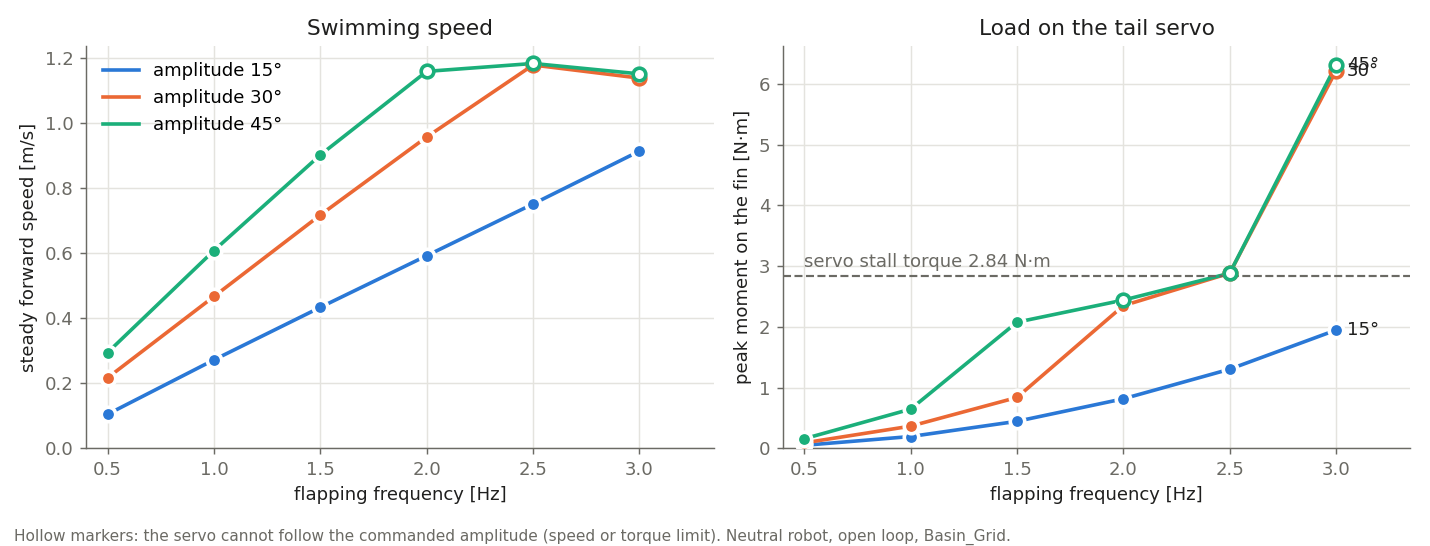
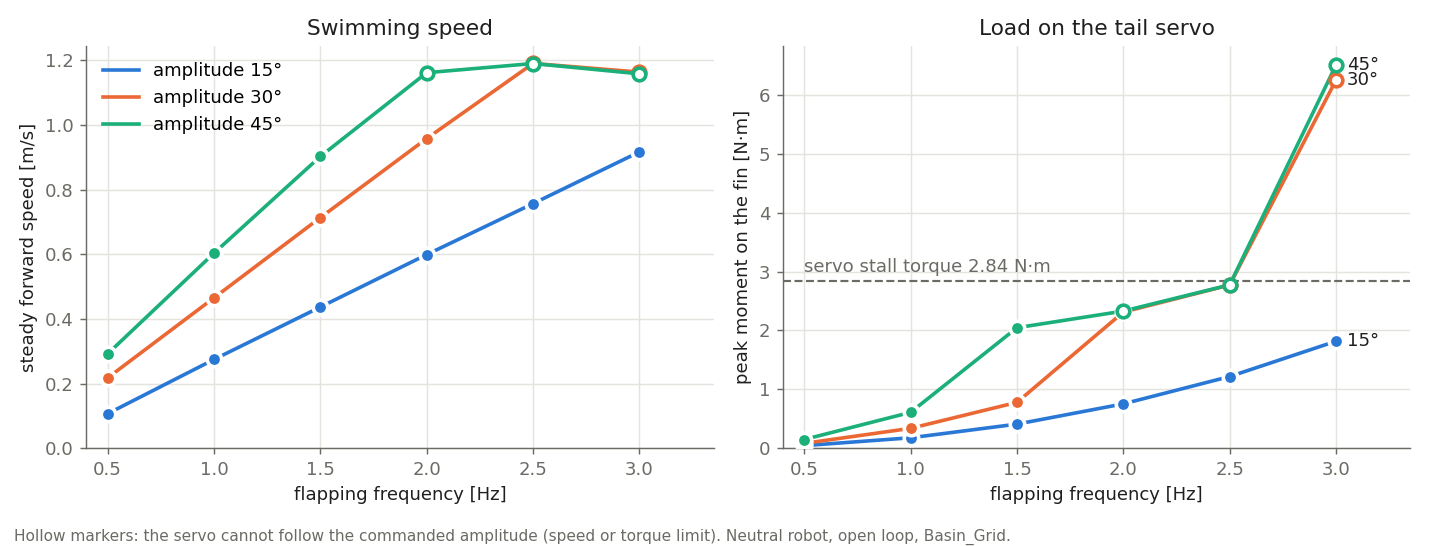
Use a balanced mass model for the robot structure
The components now only count as a total mass (4.0 kg). By default
(massModel = Simplified) the structure is balanced like a well-trimmed
robot: with the moving mass at the tube center, the center of mass is
right under the center of buoyancy, 10 mm below it (BG), and the inertia
is that of a uniform cylinder of the hull size plus the added inertia of
the water. The CAD distribution is kept as the Cad option.

BG was chosen by testing 3 to 30 mm: 10 mm gives the smallest roll and
the best depth holding at cruise. The yaw swing does not depend on the
mass distribution: it comes from the reaction of the tail.

diff --git a/Assets/AUV/Scripts/RobotFishPhysics.cs b/Assets/AUV/Scripts/RobotFishPhysics.cs
@@ -39,14 +39,28 @@ public class RobotFishPhysics : MonoBehaviour
     public float fallbackWaterLevel = 0f;
 
     // ------------------------------------------------------------------ mass properties
-    // The robot carries no ballast: its mass is the structure (every part, estimated from the CAD) plus the
-    // moving mass. Its buoyancy is therefore a result, not a setting (see Docs/RobotFish_CAD_Report.md).
-    [Header("Structure (everything except the moving mass, Docs/RobotFish_CAD_Report.md)")]
-    [Tooltip("Mass of the structure: hull, electronics, battery, servos, fins [kg] (team estimate: about 4 kg; the part of it not explained by the CAD is placed at the tube center).")]
+    // The robot carries no ballast: its mass is the structure plus the moving mass. Its buoyancy is therefore a
+    // result, not a setting. Two models for how the structure mass is distributed (field `massModel`):
+    //   - Simplified (default): the components only matter as a total mass. The structure is balanced like a
+    //     well-trimmed robot: its center of mass is right under the center of buoyancy (B) with the moving mass at
+    //     the tube center, `centerOfMassBelowBuoyancy` (BG) below it, and its inertia is that of a uniform cylinder
+    //     of the hull size. On the real robot this balance is reached by placing the battery and the other
+    //     components; BG is mainly set by how low the battery is mounted.
+    //   - Cad: center of mass and inertia from the CAD parts (Docs/RobotFish_CAD_Report.md).
+    public enum MassModel { Simplified, Cad }
+
+    [Header("Structure (everything except the moving mass)")]
+    [Tooltip("Mass of the structure: hull, electronics, battery, servos, fins [kg] (team estimate: about 4 kg).")]
     public float structureMass = 4.000f;
-    [Tooltip("Center of mass of the structure, local axes [m].")]
+    [Tooltip("Simplified: balanced structure, center of mass under the center of buoyancy (computed at start). Cad: values below, from the CAD parts.")]
+    public MassModel massModel = MassModel.Simplified;
+    [Tooltip("Simplified model: distance from the center of buoyancy down to the center of mass (BG) with the moving mass at the tube center [m]. Larger = the robot rights itself more strongly in roll and pitch.")]
+    public float centerOfMassBelowBuoyancy = 0.010f;
+    [Tooltip("Simplified model: added inertia of the water in pitch and yaw [kg·m²] (slender cylinder, Docs/RobotFish_CAD_Report.md).")]
+    public float waterAddedInertia = 0.0507f;
+    [Tooltip("Center of mass of the structure, local axes [m]. Cad model: from the CAD report. Simplified model: computed at start.")]
     public Vector3 structureCenterOfMass = new Vector3(0.0237f, -0.0049f, 0f);
-    [Tooltip("Principal moments of inertia of the structure about its own center of mass, local axes x (roll), y (yaw), z (pitch), including the added inertia of the water [kg·m²].")]
+    [Tooltip("Principal moments of inertia of the structure about its own center of mass, local axes x (roll), y (yaw), z (pitch), including the added inertia of the water [kg·m²]. Cad model: from the CAD report. Simplified model: computed at start.")]
     public Vector3 structureInertia = new Vector3(0.0044f, 0.1322f, 0.1324f);
 
     // ------------------------------------------------------------------ hull geometry (displaced volume)
@@ -183,6 +197,7 @@ public class RobotFishPhysics : MonoBehaviour
     // ------------------------------------------------------------------ debug
     [Header("Debug (read-only)")]
     public float mass;                                // structure + moving mass [kg]
+    public float bg;                                  // center of mass below the center of buoyancy [m]
     public float buoyancyPercent;                     // (water pushed up / weight − 1) × 100: + = floats
     public float displacedVolume;                     // sum of the buoyancy points [m³]
     public float submergedFraction;                   // part of the volume under water
@@ -238,6 +253,7 @@ public class RobotFishPhysics : MonoBehaviour
         BuildBuoyancyPoints();
         BuildDragSlices();
         BuildTailStrips();
+        if (massModel == MassModel.Simplified) SetSimplifiedMassModel();
         mass = structureMass + movingMass;
         buoyancyPercent = (WaterDensity * displacedVolume / mass - 1f) * 100f;
         if (levelAtRest && movingMass > 1e-4f)        // CoM under the CoB: structure·x_s + moving·x_m = mass·x_B
@@ -252,6 +268,23 @@ public class RobotFishPhysics : MonoBehaviour
         UpdateMassProperties();
     }
 
+    // Simplified mass model: the structure is balanced so that, with the moving mass at the tube center, the center
+    // of mass of the whole robot is right under the center of buoyancy, BG below it:
+    //   structure·G_s + moving·(0, 0, 0) = total·(B − BG·up)  →  G_s = total·(B − BG·up) / structure.
+    // Inertia of the structure: uniform solid cylinder of the hull size (tube radius, dome tip to rear cap),
+    //   roll = ½·m·r², pitch = yaw = m·(3·r² + L²)/12, plus the added inertia of the water in pitch and yaw.
+    void SetSimplifiedMassModel()
+    {
+        float total = structureMass + movingMass;
+        Vector3 target = centerOfBuoyancy + Vector3.down * centerOfMassBelowBuoyancy;
+        target.z = 0f;                                                     // laterally centered
+        structureCenterOfMass = total * target / structureMass;
+        float r = tubeRadius;
+        float length = domeRadius + 2f * capThickness + tubeLength;       // dome tip to rear cap
+        float across = structureMass * (3f * r * r + length * length) / 12f;
+        structureInertia = new Vector3(0.5f * structureMass * r * r, across + waterAddedInertia, across + waterAddedInertia);
+    }
+
     // Mass, center of mass and inertia of structure + moving mass (the moving mass is on the tube axis)
     void UpdateMassProperties()
     {
@@ -260,6 +293,7 @@ public class RobotFishPhysics : MonoBehaviour
         Vector3 movingPoint = Vector3.left * movingMassPosition;                      // forward = −X
         Vector3 com = (structureMass * structureCenterOfMass + movingMass * movingPoint) / mass;
         rb.centerOfMass = com;
+        bg = centerOfBuoyancy.y - com.y;
         // parallel-axis theorem: each part's inertia about the common center of mass (diagonal terms)
         Vector3 inertia = structureInertia + ParallelAxis(structureMass, structureCenterOfMass - com) + ParallelAxis(movingMass, movingPoint - com);
         if (propulsion == PropulsionModel.TailFlapping && finAddedYawInertia) inertia.y += FinAddedYawInertia(com);

diff --git a/Docs/RobotFish_Model.md b/Docs/RobotFish_Model.md
@@ -32,9 +32,9 @@ The pressure sensor and the GNSS antenna exist on the robot but are not in the C
 | Displaced volume | 4.71 L | the water pushes the robot up with the weight of 4.71 kg |
 | Structure mass | **4.0 kg** (team estimate). The parts of the CAD (volume × assumed material) explain 2.43 kg; the remaining 1.57 kg is placed at the tube center, on the axis (battery, electronics and cables are there) | – |
 | Moving mass for neutral buoyancy | **714 g**: the simulation uses this weight | the robot is neutral (4.71 kg) and stays at its depth; **weighing the robot** remains the most useful measurement |
-| Center of mass of the structure | 18 mm behind and 4 mm below the center of buoyancy (the tail servo is heavy and at the rear) | submerged, the robot tends to raise its nose; the moving mass rests 92 mm forward of the tube center to keep it level, which leaves 58 mm of travel forward and 242 mm backward |
-| Moving-mass authority | with 714 g, about 11 mm of displacement tilts the robot by 30° at rest | a few centimetres of travel are enough to tilt the robot by tens of degrees; the depth controller will use only a small part of the travel |
-| Center of mass below the center of buoyancy | 2.8 mm (neutral) | weak self-righting: the robot rolls and tilts easily |
+| Center of mass of the structure (CAD parts) | 18 mm behind and 4 mm below the center of buoyancy (the tail servo is heavy and at the rear) | with this distribution the moving mass would have to rest 92 mm forward to keep the robot level. On the real robot this is corrected by placing the battery and the other components, so the simulation uses a **balanced structure** by default (section 3.1) |
+| Moving-mass authority | with 714 g and BG = 10 mm, about 38 mm of displacement tilts the robot by 30° at rest, the full travel (±150 mm) by ±66° | a few centimetres of travel are enough to tilt the robot by tens of degrees; the depth controller will use only part of the travel |
+| Center of mass below the center of buoyancy (BG) | 2.8 mm with the CAD distribution; **10 mm** in the simulation (balanced structure, battery mounted low) | the smaller BG, the more easily the robot rolls and tilts |
 
 ## 3. Simulation model
 
@@ -62,10 +62,13 @@ Local axes: forward = −X, up = +Y, right = +Z; origin = tube center. The physi
 
 ### 3.1 Mass properties
 
-- **Structure** (every part except the moving mass): `structureMass` = 4.0 kg, `structureCenterOfMass`, `structureInertia` (about its own center of mass, including the added inertia of the water in pitch and yaw), all from the CAD report.
+- **Structure** (every part except the moving mass): `structureMass` = 4.0 kg. How this mass is distributed is set by `massModel`:
+  - **`Simplified` (default):** the components only count as a total mass, and the structure is balanced like a well-trimmed robot. With the moving mass at the tube center, the center of mass of the whole robot is right under the center of buoyancy, `centerOfMassBelowBuoyancy` (BG = 10 mm) below it. The inertia is that of a uniform solid cylinder of the hull size (radius 55 mm, 473 mm from the dome tip to the rear cap), plus the added inertia of the water in pitch and yaw (0.0507 kg·m²). On the real robot, this balance is reached by placing the battery and the other components; BG mainly depends on how low the battery is mounted. The value of 10 mm was chosen with the tests of section 5.1.
+  - **`Cad`:** `structureCenterOfMass` and `structureInertia` from the CAD parts (CAD report), with the 1.57 kg not explained by the CAD at the tube center. The robot then needs the moving mass 92 mm forward to be level and has a BG of only 2.8 mm.
+  - `bg` (Debug) shows the current BG.
 - **Moving mass** on the tube axis: `movingMass` (default **0.714 kg**, the weight that makes the robot neutral), at `movingMassPosition` (+ = forward).
 - Every step, the total mass, the center of mass and the inertia (parallel-axis theorem) are recomputed from both. The **buoyancy is a result**: `buoyancyPercent` (Debug) = water pushed up / weight − 1.
-- **Rest position:** with `levelAtRest` (default), the rest position of the moving mass is computed at start so that the submerged robot rests level (moving mass placed so that the center of mass is under the center of buoyancy, clamped to the travel), as an operator would adjust it. With 714 g it is 92 mm forward of the tube center.
+- **Rest position:** with `levelAtRest` (default), the rest position of the moving mass is computed at start so that the submerged robot rests level (moving mass placed so that the center of mass is under the center of buoyancy, clamped to the travel), as an operator would adjust it. With the `Simplified` model it is the tube center; with the `Cad` model, 92 mm forward.
 - **Command:** `pitchCommand` 0 = rest position, +1 = front end (nose down), −1 = back end (nose up); the mass moves at `movingMassSpeed` (50 mm/s, estimate).
 
 ### 3.2 Buoyancy
@@ -153,7 +156,7 @@ The detailed prefab uses the CAD parts converted by `Tools/cad_analysis/cad_to_u
 `RobotFishVisual` (`Assets/AUV/Scripts/RobotFishVisual.cs`) moves two parts every frame from the state of `RobotFishPhysics` (it only moves visuals; the physics does not depend on it):
 
 - **Moving mass**: a square carriage (50 × 50 mm, orange) with a metal weight on top (40 × 40 × 15 mm, steel), like on the real robot, on the tube axis. Its size is fixed: the weight set in `movingMass` only matters for the physics.
-  - **Exaggerated display (default, `movingMassDisplay`).** Near neutral buoyancy, the center of mass is only a few millimetres below the center of buoyancy, so a few millimetres of moving mass already tilt the robot by tens of degrees (11 mm ≈ 30° with 714 g) and the real motion cannot be seen. The displayed offset from the rest position is therefore scaled up: the displayed mass reaches the end of the tube when the robot, at rest, would be pitched by `referencePitch` (45°). From the static balance about the center of buoyancy, tan θ = (m · Δx / M) / BG, so the real offset for 45° is Δx_ref = M · BG · tan 45° / m (about 18 mm with 714 g; the free travel ahead of the rest position is 58 mm, so the display scale is about 3). The mass moves first and the nose follows, as on the real robot. The scale is never below 1, and the Inspector shows it (`displayScale`). **Only the visual is scaled; the physics uses the real position.**
+  - **Exaggerated display (default, `movingMassDisplay`).** Near neutral buoyancy, the center of mass is only a few millimetres below the center of buoyancy, so a few millimetres of moving mass already tilt the robot by tens of degrees and the real motion is hard to see. The displayed offset from the rest position is therefore scaled up: the displayed mass reaches the end of the tube when the robot, at rest, would be pitched by `referencePitch` (45°). From the static balance about the center of buoyancy, tan θ = (m · Δx / M) / BG, so the real offset for 45° is Δx_ref = M · BG · tan 45° / m (66 mm with 714 g and BG = 10 mm; the free travel ahead of the rest position is 150 mm, so the display scale is about 2.3. With the `Cad` model and its BG of 2.8 mm the scale is larger). The mass moves first and the nose follows, as on the real robot. The scale is never below 1, and the Inspector shows it (`displayScale`). **Only the visual is scaled; the physics uses the real position.**
   - `Realistic` shows the real position.
 - **Tail**: the servo hub, the arm and the fin turn together about the vertical servo axis with `finAngle`.
 
@@ -179,24 +182,24 @@ All visuals are on the **`Robot` layer**, which the robot's camera (`Sensors/RGB
 
 ### 5.1 Tail flapping
 
-Open-loop tests in `Basin_Grid` with `RobotFishDetailed`, neutral robot (structure 4.0 kg, moving mass 714 g), starting from rest at 2.5 m depth. For each frequency and amplitude, the speed is measured between 7 and 12 s (steady state).
+Open-loop tests in `Basin_Grid` with `RobotFishDetailed`, neutral robot (structure 4.0 kg balanced with BG = 10 mm, moving mass 714 g), starting from rest at 2.5 m depth. For each frequency and amplitude, the speed is measured between 7 and 12 s (steady state).
 
 ![Swimming speed and servo load against the flapping frequency](images/tail_flapping_sweep.png)
 
 | Frequency | Amplitude 15° | Amplitude 30° | Amplitude 45° |
 | --- | --- | --- | --- |
 | 0.5 Hz | 0.11 m/s | 0.22 m/s | 0.29 m/s |
-| 1.0 Hz | 0.27 m/s | 0.47 m/s | 0.61 m/s |
-| 1.5 Hz | 0.43 m/s | **0.72 m/s** (cruise) | 0.90 m/s |
-| 2.0 Hz | 0.59 m/s | 0.96 m/s | 1.16 m/s (real amplitude 41°) |
-| 2.5 Hz | 0.75 m/s | 1.18 m/s (28°) | 1.18 m/s (28°) |
-| 3.0 Hz | 0.91 m/s | 1.14 m/s (25°) | 1.15 m/s (31°) |
+| 1.0 Hz | 0.28 m/s | 0.47 m/s | 0.60 m/s |
+| 1.5 Hz | 0.44 m/s | **0.71 m/s** (cruise) | 0.90 m/s |
+| 2.0 Hz | 0.60 m/s | 0.96 m/s | 1.16 m/s (real amplitude 41°) |
+| 2.5 Hz | 0.76 m/s | 1.19 m/s (28°) | 1.19 m/s (28°) |
+| 3.0 Hz | 0.92 m/s | 1.16 m/s (24°) | 1.16 m/s (29°) |
 
-- **Speed** grows with frequency and amplitude. The cruise flapping (1.5 Hz, 30°) gives 0.72 m/s, about 0.9 body length per second (the robot is 0.81 m long), in the usual range of robot fish.
-- **Strouhal number** St = f · (trailing-edge peak-to-peak) / U between 0.37 and 0.55. Fish swim at 0.2–0.4; robot fish, less efficient, usually somewhat higher.
+- **Speed** grows with frequency and amplitude. The cruise flapping (1.5 Hz, 30°) gives 0.71 m/s, about 0.9 body length per second (the robot is 0.81 m long), in the usual range of robot fish.
+- **Strouhal number** St = f · (trailing-edge peak-to-peak) / U between 0.37 and 0.54. Fish swim at 0.2–0.4; robot fish, less efficient, usually somewhat higher.
 - **Servo limits:** above 2 Hz with 30° (1.5–2 Hz with 45°) the servo cannot follow, the real amplitude drops and the speed stops growing. Beyond 2.5 Hz the moment of the water on the fin exceeds the stall torque of the servo (2.84 N·m): the useful range is up to about **2 Hz at 30°**.
-- **Recoil:** the reaction of the tail makes the whole robot swing in yaw (±6° at 15°, ±10° at 30°, ±14° at 45°), as real fish swimming with their tail do, and roll by about ±4–5°.
-- **Depth:** without depth control the robot stays at its depth at low speed and climbs at high speed (up to 0.2 m/s at 2.5 Hz): the thrust acts below the center of mass and tilts the nose up by 3–5°. The depth controller (step 4) has to compensate it with the moving mass.
+- **Recoil:** the reaction of the tail makes the whole robot swing in yaw (±6° at 15°, ±10° at 30°, ±14° at 45°), as real fish swimming with their tail do, and roll (±2° at 15°, ±6° at 30°, ±10° at 45°, at 1.5 Hz).
+- **Depth:** without depth control the robot stays at its depth up to 2 Hz and climbs slowly above (about 0.13 m/s at 2.5 Hz): the thrust acts below the center of mass and tilts the nose up (2° at cruise, up to 10° at 2.5 Hz). The depth controller (step 4) has to compensate it with the moving mass.
 
 ![Start from rest](images/tail_flapping_start.png)
 
@@ -206,11 +209,24 @@ Open-loop tests in `Basin_Grid` with `RobotFishDetailed`, neutral robot (structu
 
 | Bias | Yaw rate | Turning radius | Speed |
 | --- | --- | --- | --- |
-| 5° | 7°/s | 6.1 m | 0.71 m/s |
-| 10° | 13°/s | 3.3 m | 0.72 m/s |
-| 20° | 16°/s | 2.5 m | 0.69 m/s |
+| 5° | 7°/s | 5.5 m | 0.70 m/s |
+| 10° | 12°/s | 3.3 m | 0.69 m/s |
+| 20° | 15°/s | 2.6 m | 0.69 m/s |
 
-**Roll resonance (important for the real robot).** The roll of the robot has a natural frequency close to the flapping frequencies: when neutral, the righting moment in roll is only W · BG ≈ 0.13 N·m/rad (BG = 2.8 mm) and the roll inertia ≈ 0.0045 kg·m², which gives about 0.9 Hz. Flapping near this frequency makes the robot roll, and a rolled robot turns part of the side force of the fin into a vertical force: during the development of the model, before the fin was split in rows (no roll damping from the fin), the robot rolled by ±8–10° and dived by about 1 m in 5 s while swimming. On the real robot, a strong roll or a depth drift that depends on the flapping frequency would come from this; placing the moving mass or other heavy parts lower in the tube (larger BG) moves the resonance up.
+**Roll resonance (important for the real robot).** The roll of the robot has a natural frequency close to the flapping frequencies: with BG = 10 mm the righting moment in roll is W · BG ≈ 0.46 N·m/rad and the roll inertia ≈ 0.006 kg·m², which gives about 1.4 Hz (0.9 Hz with the 2.8 mm of the CAD distribution). Flapping near this frequency makes the robot roll, and a rolled robot turns part of the side force of the fin into a vertical force: during the development of the model, before the fin was split in rows (no roll damping from the fin), the robot rolled by ±8–10° and dived by about 1 m in 5 s while swimming. The rows over the height of the fin damp the roll enough to keep it at about ±6°. On the real robot, a strong roll or a depth drift that depends on the flapping frequency would come from this.
+
+**Choice of BG.** BG is a design value of the real robot (how low the battery is mounted), so the tests were run for several values (30° amplitude, depth drift over 5 s, + = climbs):
+
+| Mass model | Roll at 1.5 Hz / 2 Hz | Yaw at 1.5 Hz | Mean pitch at 1.5 Hz | Depth drift at 1.5 Hz / 2.5 Hz |
+| --- | --- | --- | --- | --- |
+| CAD distribution (BG 2.8 mm) | ±6.1° / ±8.1° | ±9.7° | 4.7° nose up | +0.09 / +0.85 m |
+| Balanced, BG 3 mm | ±6.0° / ±8.1° | ±9.7° | 7.0° nose up | +0.25 / +1.12 m |
+| Balanced, BG 5 mm | ±5.6° / ±7.3° | ±9.9° | 4.3° nose up | +0.08 / +1.25 m |
+| **Balanced, BG 10 mm (default)** | **±5.6° / ±7.1°** | **±10.2°** | **2.1° nose up** | **−0.06 / +0.67 m** |
+| Balanced, BG 20 mm | ±6.4° / ±9.3° | ±10.4° | 0.8° nose up | −0.18 / +0.30 m |
+| Balanced, BG 30 mm | ±6.9° / ±11.6° | ±10.5° | 0.3° nose up | −0.23 / +0.08 m |
+
+10 mm gives the smallest roll and keeps the depth best at cruise. A larger BG resists the nose-up moment of the thrust better, but it brings the roll resonance closer to the flapping frequencies (more roll at 2 Hz). The speed (0.71 m/s at cruise) does not depend on the mass distribution, and neither does the yaw swing: it comes from the reaction of the tail on the body, not from where the components are.
 
 ### 5.2 Mass, buoyancy, moving mass (SimpleThrust model)
 
@@ -315,9 +331,9 @@ After Ctrl+C on every `pub`, the actuators return to neutral within 0.5 s (watch
 ## 7. Limitations
 
 - **Flapping tail:** reactive (Lighthill) + resistive model with literature coefficients (added mass 0.7 of the 2D value, crossflow drag 1.2), not calibrated: the speeds of section 5.1 should be compared with the real robot (speed for a few frequencies and amplitudes) and the coefficients adjusted. No wake, no interaction between the hull and the fin, no effect of the fin coming out of the water at the surface beyond the wet fraction.
-- **Added inertia of the fin in yaw:** the water carried by the fin when the whole robot yaws is not included (`finAddedYawInertia`, off): with it, the model dives while swimming (the roll and yaw oscillations couple, see the roll resonance in section 5.1). The yaw recoil is therefore somewhat overestimated.
+- **Added inertia of the fin in yaw:** the water carried by the fin when the whole robot yaws is not included (`finAddedYawInertia`, off). With it, the yaw swing drops from ±10° to about ±7°, but the model dives while swimming (about 0.5 m in 5 s), for every BG tested; the cause is not understood yet. The yaw swing is therefore somewhat overestimated.
 - **Servo:** speed and acceleration limits from the datasheet; the velocity-dependent part of the water moment is not taken into account by the servo model (the `tailHingeMoment` debug value shows it).
-- **Masses:** the structure masses are estimates (CAD volume × assumed material); the buoyancy and the balance of the robot depend strongly on them.
+- **Masses:** the structure mass (4.0 kg) is a team estimate and its distribution is idealized (`Simplified` model: balanced robot, BG = 10 mm). Weighing the robot and measuring where its center of mass is (balance on a rod, and the roll period in the water) would replace both.
 - **Moving-mass drive:** unknown; modeled as a mass moving at constant speed along the axis.
 - **Added mass:** the water that moves with the hull sideways and vertically (≈ 3.8 kg) is not simulated, because Unity bodies have one mass for all directions; only the added inertia in pitch and yaw is included.
 - **Unsteady effects:** the dorsal fin force is quasi-steady (no wake, no delay in the build-up of lift).

diff --git a/Docs/RobotFish_Assumptions.md b/Docs/RobotFish_Assumptions.md
@@ -15,9 +15,9 @@ The simulation of the robot fish relies on values that were not measured on the 
 | 1 | **Mass of the robot** (weighed in air, with everything inside except the moving mass) | 4.0 kg (team estimate; the CAD parts explain 2.43 kg, the rest is placed at the tube center) | Sets the moving mass needed to be neutral (714 g with 4.0 kg) and where the center of mass is | Kitchen scale |
 | 2 | Buoyancy in the basin, for a given moving mass | – | Confirms the displaced volume and the mass together | In the basin, note how much of the robot stays out of the water, or add weight until it barely floats |
 | 3 | Weight of the moving mass in use | 714 g (the weight that makes the robot neutral) | Pitch authority and buoyancy | Weigh it |
-| 4 | Longitudinal position of the center of mass of the structure | 39 mm behind the tube center (estimate: the tail servo is heavy and at the rear) | Decides where the moving mass must be for the robot to be level | Balance the robot (without the moving mass) on a rod across the tube |
-| 5 | **Speed of the robot for a few flapping settings** (e.g. 1, 1.5 and 2 Hz at 30°) | simulated: 0.47, 0.72, 0.96 m/s | Calibrates the tail propulsion (added mass coefficient) and the hull drag together | Time it over a known distance in the basin, after the speed has settled |
-| 6 | Roll and depth drift while flapping | simulated: ±4–5° of roll, slight climb at high speed | Checks the roll resonance found in the simulation (about 0.9 Hz, [RobotFish_Model.md](RobotFish_Model.md#51-tail-flapping)) | Video from the side and the front, IMU roll, pressure sensor |
+| 4 | Position of the center of mass of the structure | simulation: balanced robot (under the center of buoyancy with the moving mass centered), 10 mm below it (BG); the CAD parts alone would give 18 mm behind and 2.8 mm of BG | Decides where the moving mass rests and how much the robot rolls | Balance the robot (without the moving mass) on a rod across the tube; roll period in the water gives BG |
+| 5 | **Speed of the robot for a few flapping settings** (e.g. 1, 1.5 and 2 Hz at 30°) | simulated: 0.47, 0.71, 0.96 m/s | Calibrates the tail propulsion (added mass coefficient) and the hull drag together | Time it over a known distance in the basin, after the speed has settled |
+| 6 | Roll and depth drift while flapping | simulated: about ±6° of roll, slight climb at high speed | Checks the roll resonance found in the simulation (about 1.4 Hz with BG = 10 mm, [RobotFish_Model.md](RobotFish_Model.md#51-tail-flapping)) | Video from the side and the front, IMU roll, pressure sensor |
 | 7 | Whether the servo keeps the amplitude at high frequency | simulated: amplitude drops above ≈ 2 Hz at 30° | Servo torque and speed under the water load | Video from above, compare the real amplitude with the command |
 
 ## 2. Mass budget (`yaml`)
@@ -37,6 +37,7 @@ Each CAD part gets a mass from its CAD volume × an assumed density, or from a d
 | Rod (`haste`) | steel, 7.85 g/cm³ | estimate |
 | Cables, screws, o-rings | 100 g at the tube center | estimate |
 | Unaccounted mass | 1.57 kg at the tube center, on the axis: difference between the team estimate of the structure (4.0 kg) and the parts above (2.43 kg) | team estimate (yaml `structure_mass_target`) |
+| Mass distribution used by the simulation | `Simplified` model: total 4.0 kg, balanced (center of mass under the center of buoyancy with the moving mass centered), BG = 10 mm, inertia of a uniform cylinder of the hull size. The CAD distribution above is kept as the `Cad` option | estimate (prefab: `massModel`, `centerOfMassBelowBuoyancy`) |
 | Moving mass | 714 g on the tube axis, the weight that makes the robot neutral (yaml `moving_mass.mass_g: neutral`); not part of the structure mass | team |
 | Ballast | none: the robot carries only its parts and the moving mass (team) | team |
 

diff --git a/Docs/GNC.md b/Docs/GNC.md
@@ -149,7 +149,7 @@ Scripted test in `Basin_Grid`: a ROS 2 node published a command sequence at 20 H
 The physics of the robot fish is described in [RobotFish_Model.md](RobotFish_Model.md). For the GNC, the main consequences are:
 
 - **No ballast:** depth is controlled only through the pitch (moving mass) while swimming forward. Vertical speed ≈ forward speed × sin(pitch). With the moving mass heavy enough to be neutral (≈ 2.3 kg), a few centimetres of displacement tilt the robot by tens of degrees and its full travel (±150 mm) makes it vertical, so the depth controller must limit the displacement it commands. Depth control will be a cascade: depth error → desired pitch → moving-mass position.
-- **Weak self-righting:** the center of mass is only 3–6 mm below the center of buoyancy, so the robot tilts and rolls easily and pitch oscillates slowly after a change; the pitch loop must damp it.
+- **Weak self-righting:** the center of mass is only about 10 mm below the center of buoyancy (simulation value, set by how low the battery is mounted), so the robot tilts and rolls easily and pitch oscillates slowly after a change; the pitch loop must damp it.
 - **One fin for propulsion and steering:** speed is set by the flapping frequency and amplitude (about 0.7 m/s at 1.5 Hz and 30°, see [RobotFish_Model.md](RobotFish_Model.md#51-tail-flapping)), the heading by the bias of the oscillation (10° of bias: 12°/s while swimming at cruise). The two are coupled: a large bias reduces the useful amplitude (the fin is limited to ±60°) and the speed.
 - **Turning needs speed:** the bias only steers while the robot swims.
 - **The heading oscillates with each stroke** (±6° to ±14° depending on the amplitude): the heading controller must not try to cancel this oscillation, it should act on the heading averaged over a flapping period (low-pass filter or averaging on the magnetometer/IMU heading).
